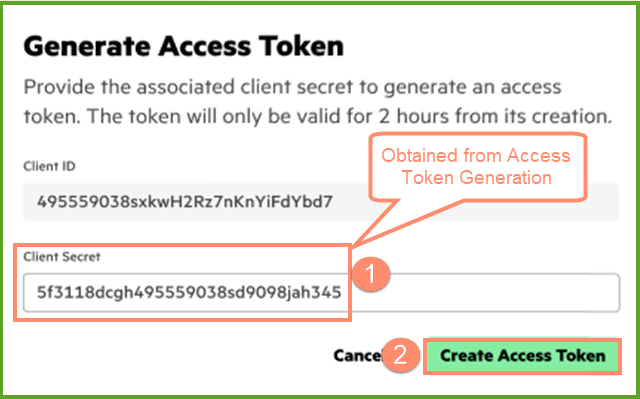
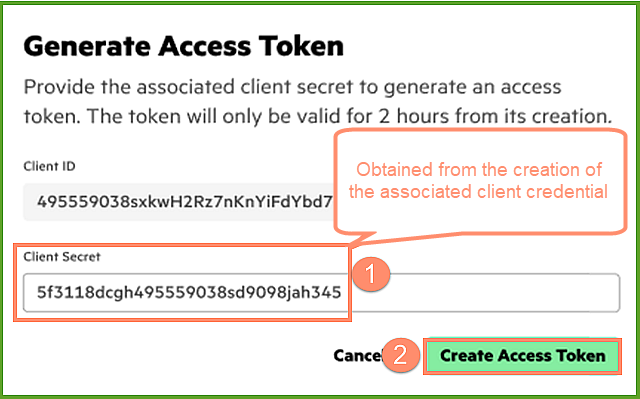
Update Blog “api-console-for-data-services-cloud-console”

diff --git a/content/blog/api-console-for-data-services-cloud-console.md b/content/blog/api-console-for-data-services-cloud-console.md
@@ -78,15 +78,15 @@ After licking on the down arrow button, user can see the Generate Access Token b
 
 ![](/img/api-client-credential-get-access-token.png "Time to obtain the Access Token")
 
-After clicking on the Generate Access Token button, the Generate Access Token menu will appear. The menu requires user to enter the client secret obtained from the associated API client credential. User must copy and paste the recorded client secret from Credential Created menu so that the user can obtain the access token.
+After clicking on the Generate Access Token button, the Generate Access Token menu will appear. The menu requires user to enter the client secret obtained from the associated API client credential. User must copy and paste the recorded client secret from Credential Created menu (in the previous image in this blog) so that the user can obtain the access token. Click on the Create Access Token button to generate the access token.
 
-![](/img/generate-access-token-with-secret.png "Use the client secret to generate Access Token")
+![obtained from client credential.](/img/generate-access-token-with-secret.png "Use the client secret to generate Access Token")
 
-Copy the access token using using the "sheets" icon and store this access token to a safely recorded location.
+The Access Token Created menu will appear and shows the generated access token. Copy the access token using using the "sheets" icon and store this access token to a safely recorded location. Click Close button to continue.
 
 ![](/img/access-token-created-and-close.png "Access Token Generated and Consumed")
 
-Afterward, the user can embed the access token to the REST API request in order to perform the HTTP method against the desired resource in order to obtain the response.  Note that the user must use the correct base-URL according to the region where the DSCC is deployed. Currently these are the base-URL and the corresponding region where the DSCC is deployed (November 2021)
+Afterward, the user can embed the access token to the REST API request in order to perform the HTTP method against the desired resource in order to obtain the response.  Note that the user must use the correct base-URL according to the region where the DSCC is deployed. Currently these are the base-URL and the corresponding region where the DSCC is deployed (November 2021).
 
 | DSCC Region  | base-URL                       |
 | ------------ | ------------------------------ |
@@ -96,13 +96,13 @@ Afterward, the user can embed the access token to the REST API request in order 
 
 #### Oops! What if I missed to copy the client secret for this instance of client credential?
 
-The client secret can be recreated inside the create credentials menu by clicking on the three dots at the bottom menu. Once the three dot menu opened, the user must click on the Reset Client Secret menu. This prior action will open the Credentials Created menu to show the new client secret for one time only. 
+The client secret can be recreated inside the create credentials menu by clicking on the three dots at the bottom menu. Once the three dot menu opened, the user must click on the Reset Client Secret button to display the newly created client secret. This prior action will open the Credentials Created menu to show the new client secret for one time only. Note that user must copy this newly created secret to a secured location so that it can be used to generate new access token.
 
 ![Reset the client secret](/img/reset-the-client-secret-in-client-credential-menu.png "resetting the client secret")
 
 #### Nice! Can you give me an example of using the access token?
 
-The access token is a long string of JSON Web Token that is signed using RS256 algorithm. Note that the access token must be added into the header of with keyword "Authorization: Bearer <access token in JWT>". This following example is based on curl tool, and it uses "https://scalpha-app.qa.cds.hpe.com" as base-URL. Note that this base-URL is DSCC testing-site only, please use one of the base-URL noted in the above table. The following example of the DSCC REST API request uses GET method for this resource /api/v1/audit-events to obtain lists of the audit-events available. Note the additional parameter with keyword "Authorization: Bearer" is added into the header of this REST API request.
+The access token is a long string of JSON Web Token that is signed using RS256 algorithm. Note that the access token must be added into the header of with keyword "Authorization: Bearer <access token in JWT>" for any DSCC REST API request. This following example is based on curl tool, and it uses "https://scalpha-app.qa.cds.hpe.com" as the base-URL. Note that this base-URL is DSCC testing-site only. For your exercise, please use one of the base-URL noted in the above table. The following example of the DSCC REST API request uses GET method for this resource /api/v1/audit-events to obtain a list of the available audit-events. Note the additional parameter with keyword "Authorization: Bearer" is added into the header of this REST API request.
 
 ```powershell
 >curl -X GET https://scalpha-app.qa.cds.hpe.com/api/v1/audit-events 
